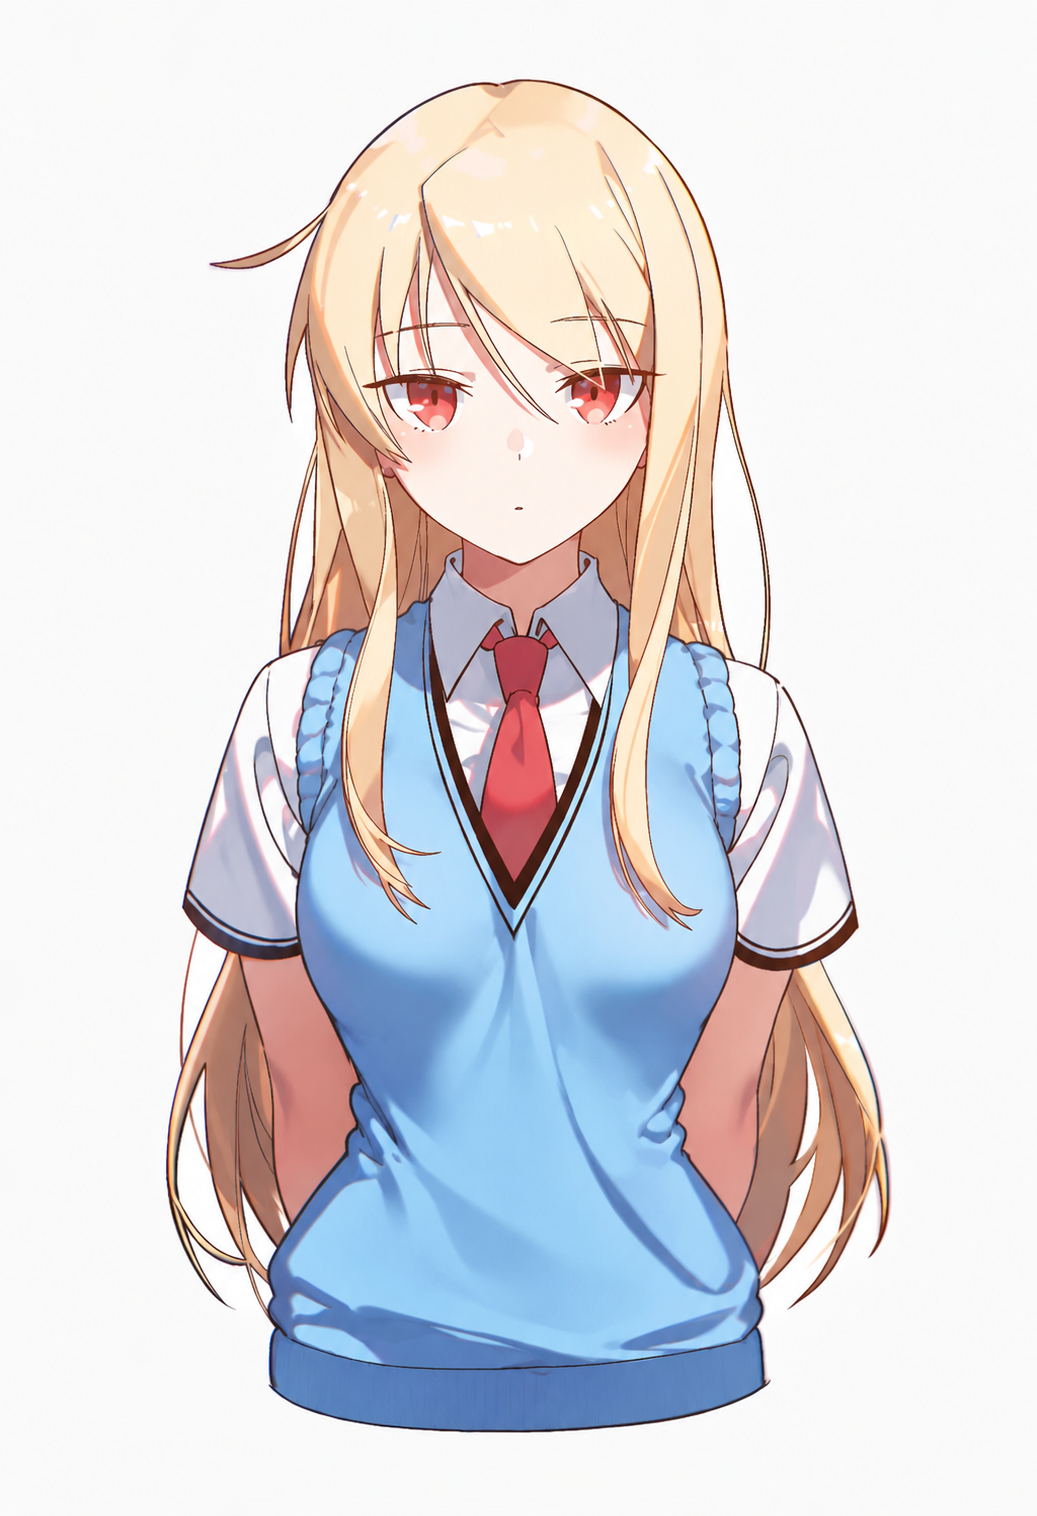
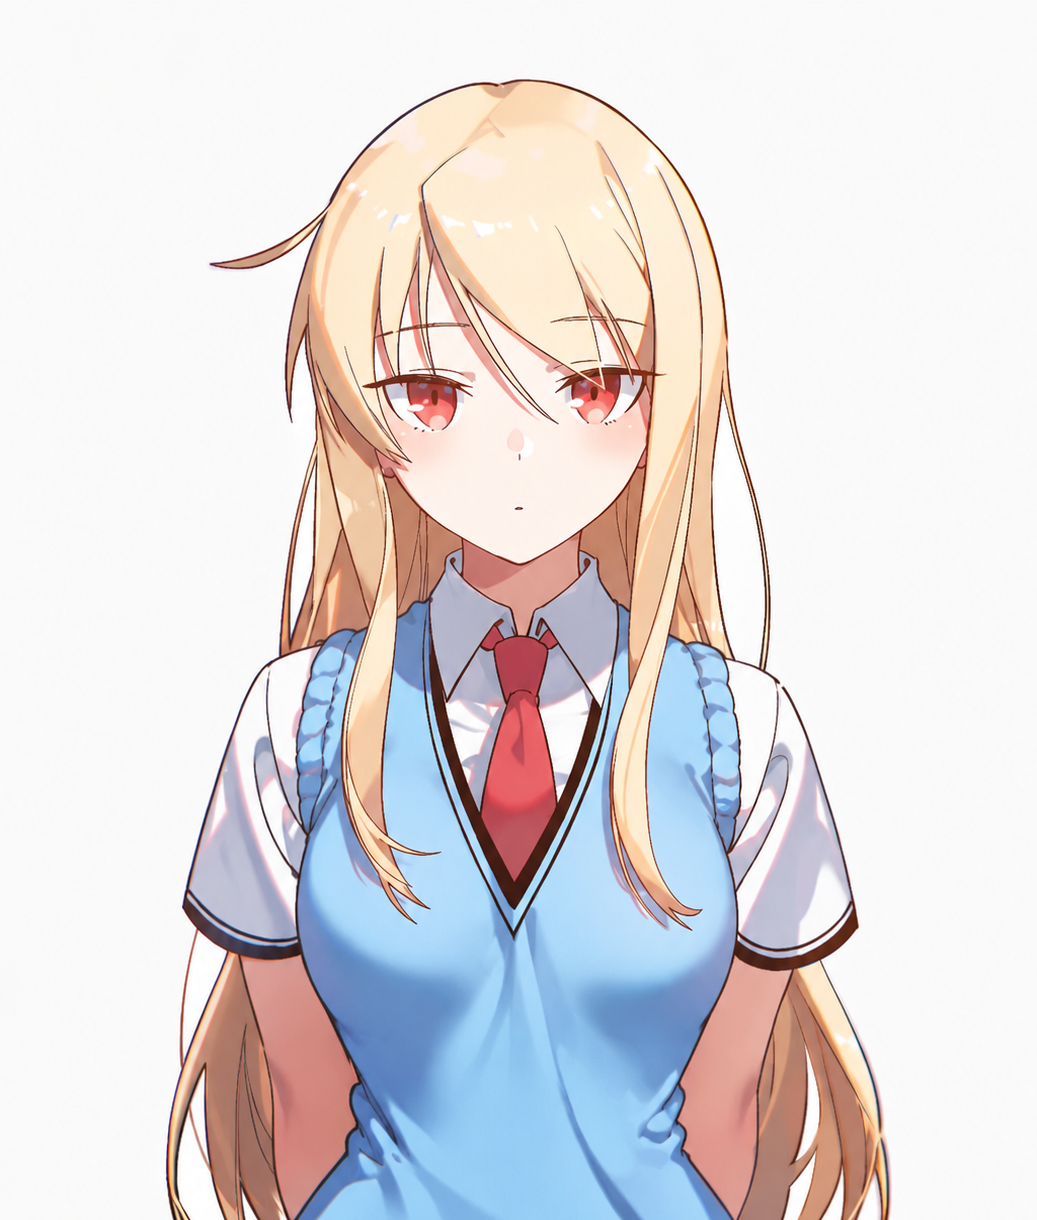
Update 椎名真白 default portrait

diff --git a/images/portraits/sakurasou/shiina-mashiro/README.md b/images/portraits/sakurasou/shiina-mashiro/README.md
@@ -1,9 +1,9 @@
 # 椎名真白 · 常规立绘
 
 - 当前文件：[default.png](default.png)。
-- 用户选定原图：`codex-clipboard-60e9a50b-e589-498f-b510-5bb6e4b8e13b.png`。
-- 尺寸：1037 × 1516；大小：1,740,268 字节。
[1 lines of base64/hex data omitted]
+- 用户选定原图：`821-mashiro-waist-crop-v1-20260914.png`。
+- 尺寸：1037 × 1220；大小：1,131,789 字节。
[1 lines of base64/hex data omitted]
 - PNG 模型记录：未知。
 - 可读取的生成参数：seed 未知；steps 未知；scale 未知；cfg_rescale 未知；sampler 未知；noise_schedule 未知。
 - 原图字节及内嵌数据完整保留，没有裁切、缩放、抠图或重新编码。
